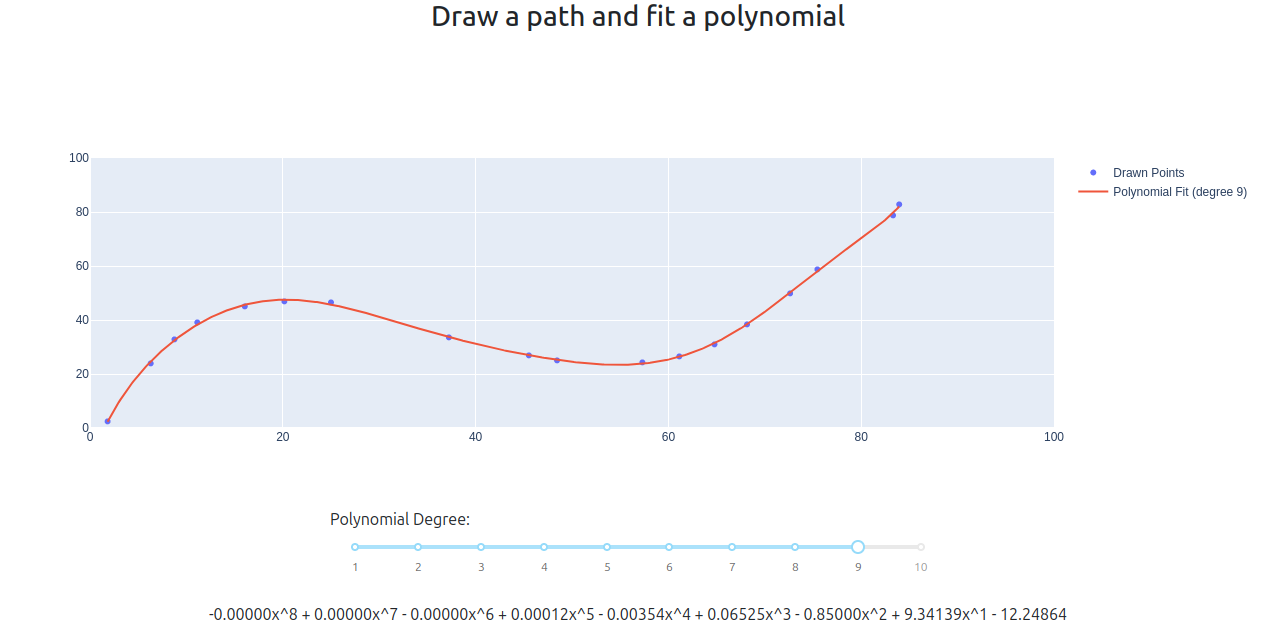
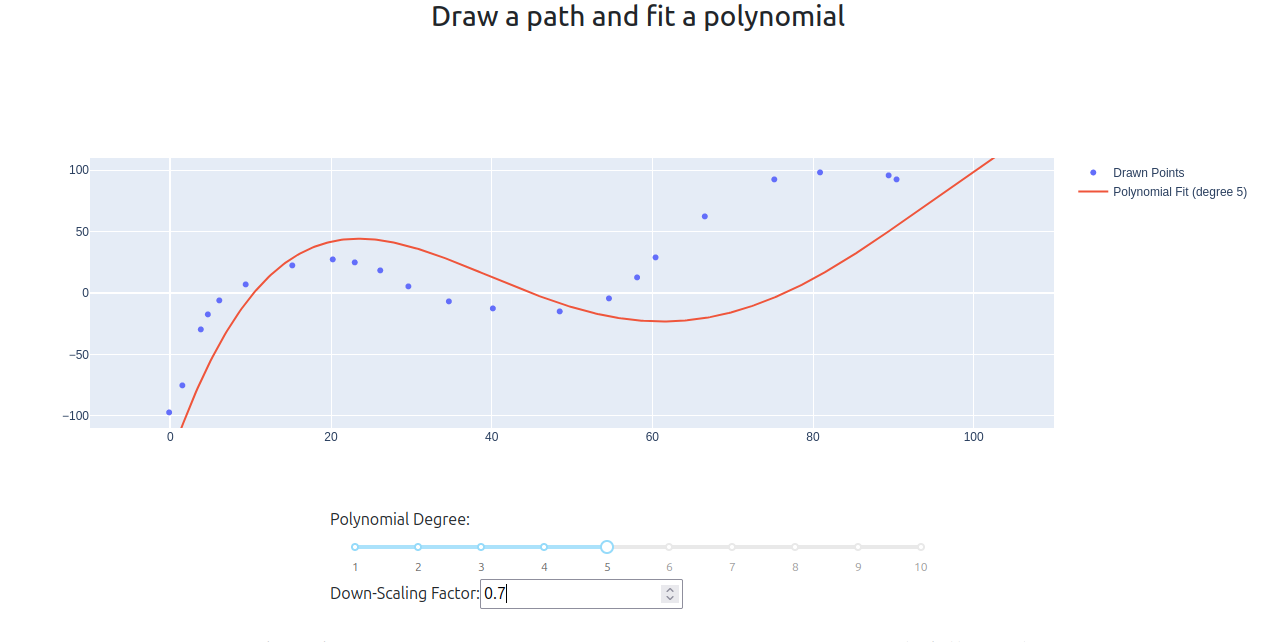
Added down-scaling functionality to account for fit inaccuracy on small numbers

diff --git a/app.py b/app.py
@@ -11,8 +11,8 @@ app = Dash(__name__, external_stylesheets=[dbc.themes.BOOTSTRAP])
 fig = go.Figure()
 fig.update_layout(
     dragmode="drawopenpath",
-    xaxis=dict(range=[0, 100]),
-    yaxis=dict(range=[0, 100])
+    xaxis=dict(range=[-10, 110]),
+    yaxis=dict(range=[-110, 110])
 )
 config = {
     "modeBarButtonsToAdd": [
@@ -40,6 +40,12 @@ app.layout = dbc.Container([
         ], width={"size": 6, "offset": 3})
     ]),
     dbc.Row([
+        dbc.Col([
+            html.Label("Down-Scaling Factor:", className="form-label"),
+            dcc.Input(id="scaling-input", type="number", value=1, step=0.1, min=0, debounce=True)
+        ], width={"size": 6, "offset": 3})
+    ]),
+    dbc.Row([
         dbc.Col(html.Div(id="polynomial-equation", className="text-center mt-4"), width=12)
     ]),
 ], fluid=True)
@@ -49,8 +55,8 @@ def fit_polynomial(x, y, degree):
     p = np.polyfit(x, y, degree)
     return np.poly1d(p)
 
-def polynomial_to_string(poly):
-    """Convert a polynomial object to a string with high accuracy and without zero coefficients."""
+def polynomial_to_string(poly, scaling_factor):
+    """Convert a polynomial object to a string with high accuracy, including scaling factor."""
     terms = []
     degree = poly.order
     for i, coeff in enumerate(poly.coefficients):
@@ -73,16 +79,19 @@ def polynomial_to_string(poly):
         else:
             polynomial_str = term
     
-    return polynomial_str
+    # Include scaling factor in description
+    scaling_info = f" (scaled by 1/{scaling_factor:.2f})" if scaling_factor != 1 else ""
+    return f"Polynomial: {polynomial_str}{scaling_info}"
 
 @app.callback(
     Output("graph", "figure"),
     Output("polynomial-equation", "children"),
     Input("graph", "relayoutData"),
     Input("degree-slider", "value"),
+    Input("scaling-input", "value"),
     prevent_initial_call=True
 )
-def on_new_annotation(relayout_data, degree):
+def on_new_annotation(relayout_data, degree, scaling_factor):
     if not relayout_data or "shapes" not in relayout_data:
         return no_update, no_update
     
@@ -90,6 +99,15 @@ def on_new_annotation(relayout_data, degree):
     if not shapes:
         return no_update, no_update
     
+    # Handle scaling factor default
+    if scaling_factor is None:
+        scaling_factor = 1
+    else:
+        try:
+            scaling_factor = float(scaling_factor)
+        except ValueError:
+            scaling_factor = 1
+
     # Extract path points
     path = shapes[-1]['path']
     coords = [tuple(map(float, p.split(','))) for p in path[1:].split('L')]
@@ -101,17 +119,25 @@ def on_new_annotation(relayout_data, degree):
     x_fit = np.linspace(min(x_points), max(x_points), 500)
     y_fit = poly(x_fit)
     
-    # Convert polynomial to string
-    poly_str = polynomial_to_string(poly)
+    # Apply scaling
+    if scaling_factor > 0:
+        x_fit_scaled = x_fit / scaling_factor
+        y_fit_scaled = y_fit / scaling_factor
+    else:
+        x_fit_scaled = x_fit
+        y_fit_scaled = y_fit
+
+    # Convert polynomial to string with scaling factor
+    poly_str = polynomial_to_string(poly, scaling_factor)
     
     # Update figure
     fig = go.Figure()
     fig.add_scatter(x=x_points, y=y_points, mode='markers', name='Drawn Points')
-    fig.add_scatter(x=x_fit, y=y_fit, mode='lines', name=f'Polynomial Fit (degree {degree})')
+    fig.add_scatter(x=x_fit_scaled, y=y_fit_scaled, mode='lines', name=f'Polynomial Fit (degree {degree})')
     fig.update_layout(
         dragmode="drawopenpath",
-        xaxis=dict(range=[0, 100]),
-        yaxis=dict(range=[0, 100])
+        xaxis=dict(range=[-10, 110]),
+        yaxis=dict(range=[-110, 110])
     )
     
     return fig, poly_str

diff --git a/README.md b/README.md
@@ -38,3 +38,15 @@ python app.py
 The screenshot below displays the dashboard with the interactive polynomial fitting tool. The tool for drawing the polynomial is annotated in the image. All zooming and drawing tools are fully functional.
 
 ![Image](./assets/screenshot.png)
+
+## Downscaling Functionality
+
+The app includes a downscaling feature to address issues with polynomial fitting on small numbers. When dealing with very small values, fitting can become inaccurate. By scaling down the polynomial fit by a specified factor, you can improve accuracy and visualization.
+
+### How to Use
+
+1. **Enter Scaling Factor**: Use the input box to specify a scaling factor. This factor will scale down both the x and y values of the polynomial fit.
+
+2. **Impact**: The polynomial fitting results and the displayed polynomial equation will reflect this scaling, helping to achieve more accurate results when working with small datasets.
+
+This feature helps ensure better fitting accuracy and visualization across different scales.
